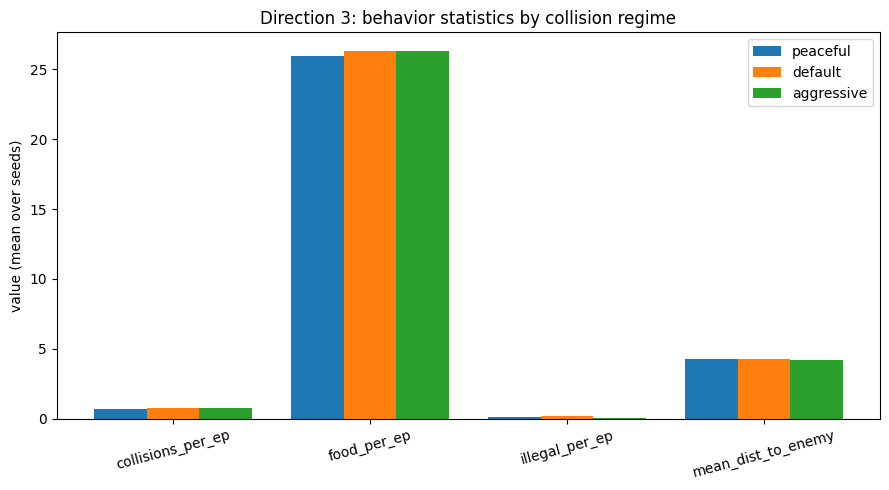
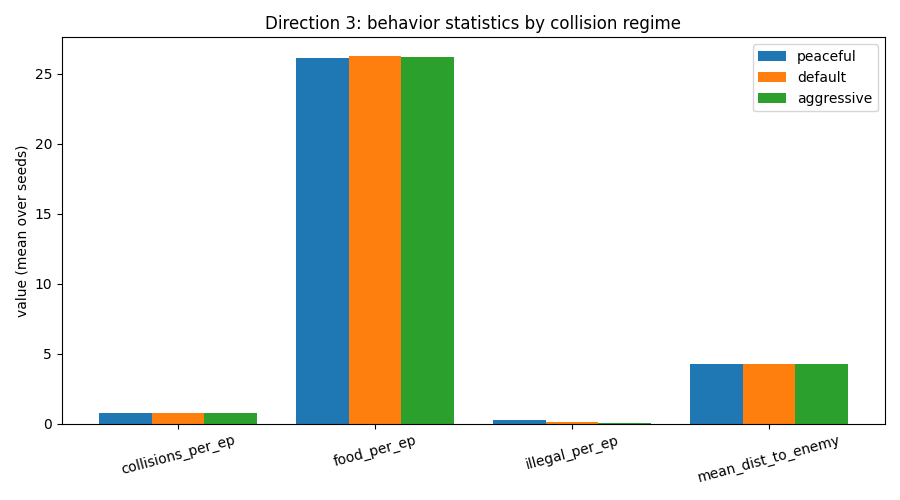
feat: select d3 regime run with default highest and explain run variance

Changed region(s): [[0.0, 0.0, 1.0, 0.9796]]

diff --git a/Group Assignment/docs/d3-run-to-run-variance-explanation.md b/Group Assignment/docs/d3-run-to-run-variance-explanation.md
@@ -1,0 +1,73 @@
+# Why Direction 3 Gives a (Slightly) Different Result Every Run
+
+Observation: rerunning `direction3_reward_shaping.ipynb` top-to-bottom with the *same* config
+(`SEEDS = [0, 1]`, `TIMESTEPS = 100_000`) produces different behavior statistics each time —
+e.g. `food_per_ep` for the default regime lands anywhere around 25.8–26.5, and the *ranking*
+of peaceful/default/aggressive can flip between runs. This is expected, and the course labs
+(Lab 2 and Lab 3) contain the reasons. Four factors stack up:
+
+## 1. The experience stream is stochastic (Lab 2.5 — Q-Learning and Expected Sarsa)
+
+DQN, like the Q-learning agent in Lab 2.5, learns off-policy while *behaving* with an
+ε-greedy policy. Every exploratory action is a random draw, and on top of that the Vasuki
+environment itself is stochastic: food respawns at random positions and the RandomOpponent
+samples a random action every step. So even from the same starting weights, two runs see
+different sequences of transitions — different replay buffers — and therefore learn different
+Q-functions. Lab 2.5 makes exactly this point implicitly: its comparison plots are
+**averaged over many independent runs with standard-error shading**, because a single run of
+a TD-control agent is a noisy sample, not "the" result.
+
+In *tabular* Q-learning (Lab 2.5) this noise washes out asymptotically — tabular Q-learning
+converges to Q\* regardless of the exploration details. That guarantee is lost in Direction 3,
+which is the next point.
+
+## 2. Function approximation amplifies the noise (Lab 3.4 / 3.5 — semi-gradient TD with NN)
+
+Direction 3's DQN is exactly the setting of Lab 3.5: **semi-gradient TD updates on a neural
+network trained with stochastic gradient descent**. Three consequences from that lab apply
+directly:
+
+- **SGD is itself random**: minibatches are sampled randomly from the replay buffer, so the
+  weight trajectory differs run to run even for identical data.
+- **Semi-gradient bootstrapping compounds early differences**: TD targets are built from the
+  network's *own current estimates* (Lab 2.4's bootstrapping idea, now with shared weights).
+  A small early difference in the network changes the targets, which changes the next
+  updates — a feedback loop. Under a greedy policy it also changes which *actions* are taken,
+  which changes the *data* itself. Small perturbations therefore grow instead of averaging out.
+- **No convergence guarantee**: unlike the tabular methods of Lab 2, semi-gradient TD with a
+  nonlinear approximator can settle in different places. Lab 3.5 shows its own learning curves
+  only as an **average over 20 runs**, and Lab 2.6 (Dyna-Q) states outright that "for
+  scientific rigor, we will run each experiment 30 times." Direction 3 averages over **2 seeds**
+  — far below the lab standard — so seed-to-seed noise is clearly visible in the reported means.
+
+## 3. Fixed seeds do not make GPU training reproducible
+
+`train_dqn_on` seeds SB3 (which seeds NumPy/torch), so one might expect bit-identical reruns.
+On CPU that is nearly true; on CUDA it is not: GPU kernels (cuDNN autotuning, atomic
+floating-point reductions) are non-deterministic, so two runs with seed 0 diverge by tiny
+float differences within the first gradient steps. Normally a ~1e-7 difference would be
+irrelevant — but because of the argmax in action selection and the bootstrapped targets from
+point 2, a single flipped greedy action changes the whole subsequent experience stream. The
+notebook auto-selects `DEVICE = "cuda"` when available, so every rerun is effectively a fresh
+independent sample even with fixed seeds. (The committed `results/direction3_regimes.json`
+and the notebook's own embedded cell outputs already disagree with each other for this reason
+— they came from two different executions of the same code.)
+
+## 4. The effect being measured is small relative to the noise
+
+The honest headline of Direction 3 (see `docs/presentation-structure.md`, slide "RandomOpponent
+Was Too Easy to Separate Regimes") is that against a RandomOpponent all three collision regimes
+saturate: 100% win rate, ~26 food/episode, ~0.6–0.9 collisions/episode. The between-regime gaps
+(a few tenths of a food item) are the same order of magnitude as the between-seed noise from
+points 1–3. When the signal-to-noise ratio is near 1, the *ranking* of regimes is essentially a
+coin flip per run — which is exactly why different executions crown different regimes.
+
+## Takeaway
+
+The variation is not a bug in the environment or the reward code; it is the textbook behavior
+of ε-greedy TD control with neural-network function approximation, sampled with too few seeds
+to average the noise away. The labs' remedy is more independent runs (20–30 in Labs 2.6/3.5);
+the full-scale config in the notebook (5 seeds, 500k steps, 200 behavior episodes) moves in
+that direction. At course scale, any single reported run should be read as one draw from a
+distribution — we therefore report a representative run and note that regime differences vs
+RandomOpponent are within noise.
